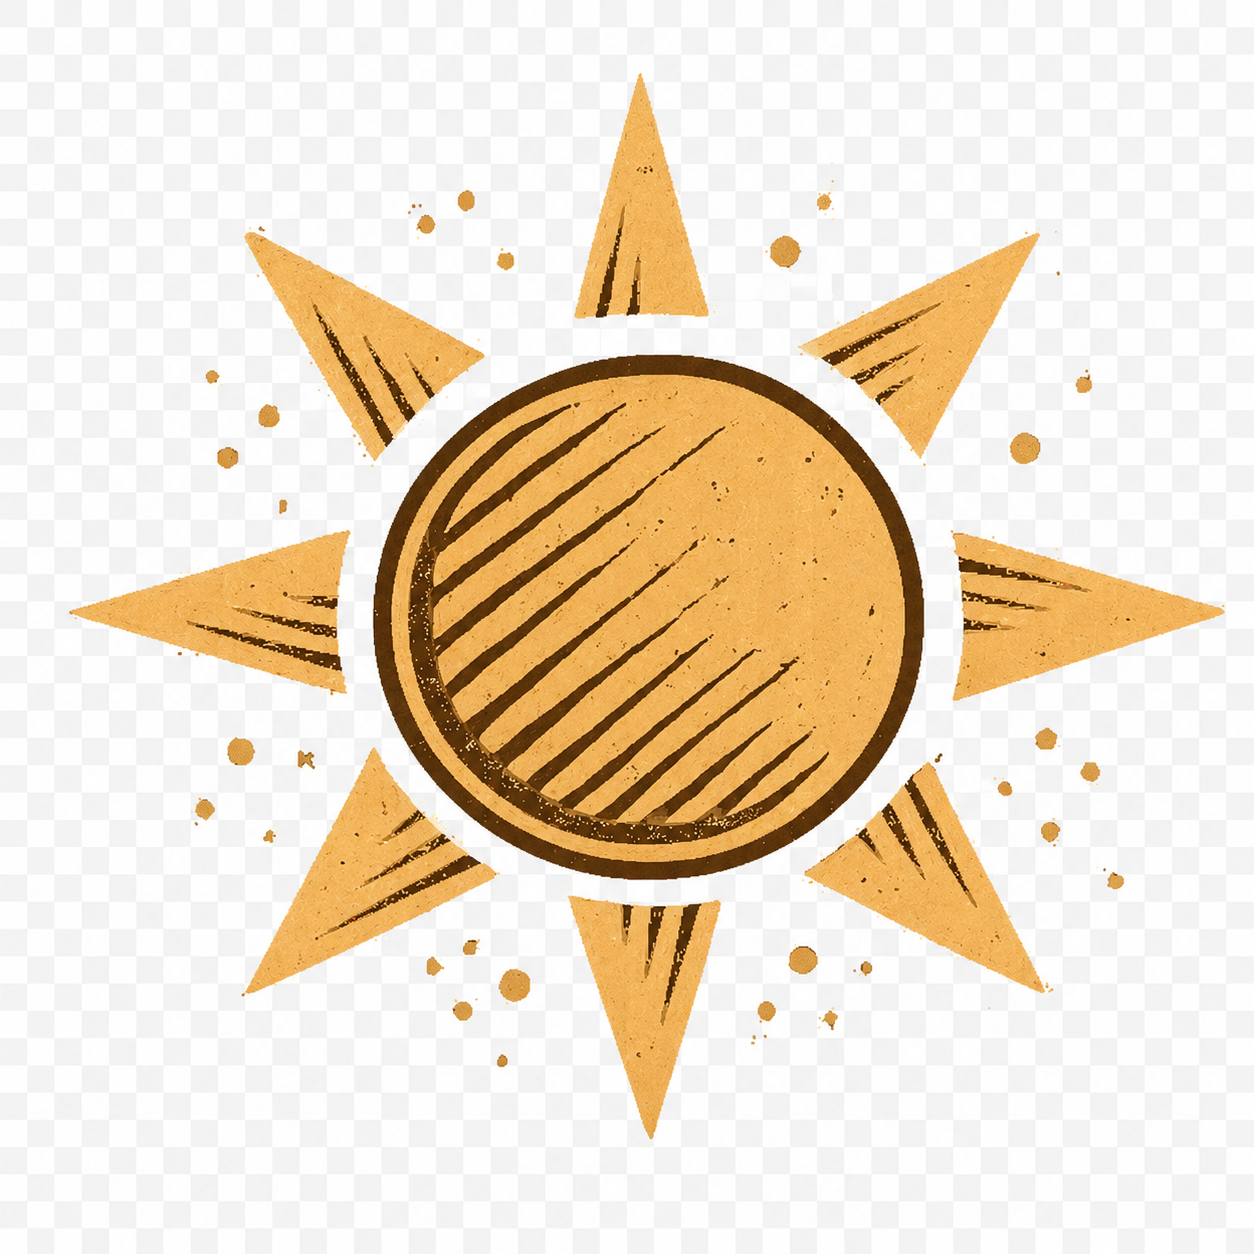
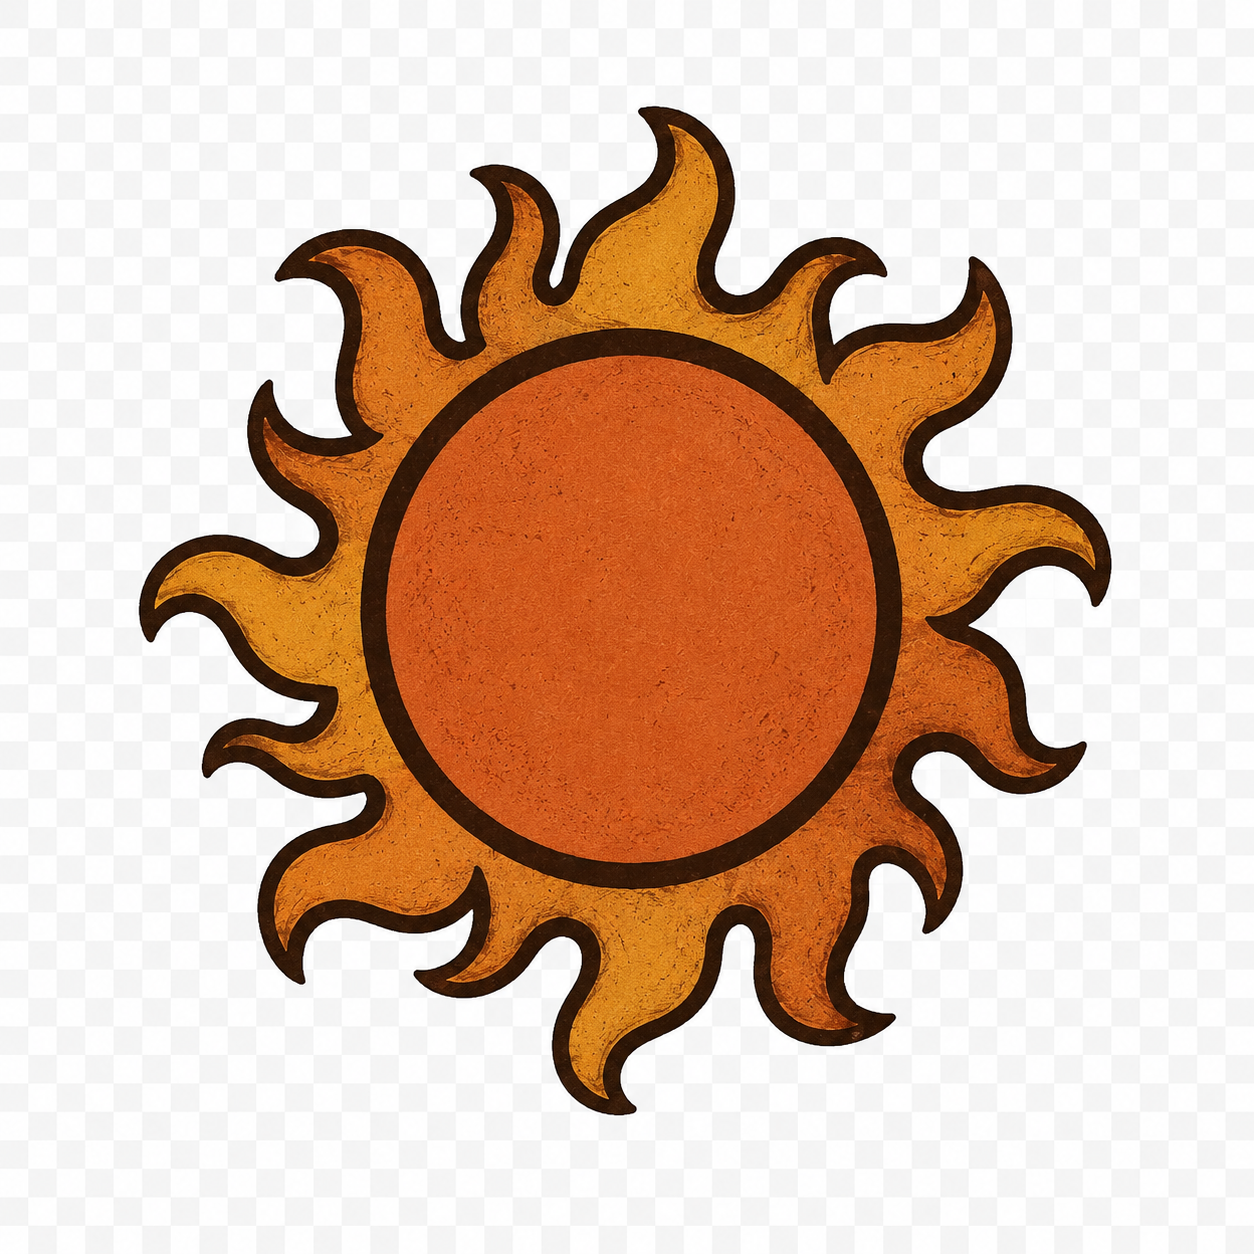
mejoras en boton theme

diff --git a/index.html b/index.html
@@ -544,11 +544,11 @@
                 <button
                   class="contact-copy"
                   type="button"
-                  data-copy-email="hola@naabit.cl"
-                  aria-label="Copiar correo hola@naabit.cl"
+                  data-copy-email="ngarciacofre@gmail.com"
+                  aria-label="Copiar correo ngarciacofre@gmail.com"
                   title="Copiar correo"
                 >
-                  <span class="contact-copy__text">hola@naabit.cl</span>
+                  <span class="contact-copy__text">ngarciacofre@gmail.com</span>
                   <svg
                     xmlns="http://www.w3.org/2000/svg"
                     fill="none"

diff --git a/assets/css/style.css b/assets/css/style.css
@@ -812,7 +812,7 @@ h3 {
   padding: 0;
   border: 1px solid var(--color-border-strong);
   border-radius: 999px;
-  background: var(--color-surface-strong);
+  background: #fff;
   box-shadow: var(--shadow-float);
   backdrop-filter: blur(14px);
   cursor: pointer;
@@ -821,7 +821,7 @@ h3 {
 
 .theme-toggle:hover {
   transform: translateY(-2px) scale(1.03);
-  background: var(--color-bg-soft);
+  background: #fff;
   border-color: var(--color-primary);
 }
 
